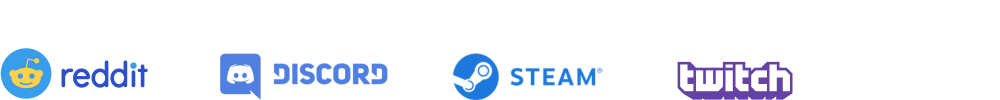
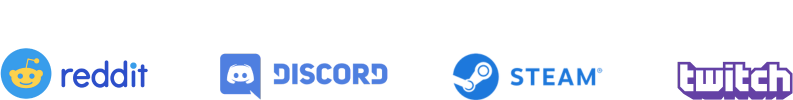
Fix RWD

Changed region(s): [[0.0, 0.48, 0.8172, 1.0], [0.8474, 0.6, 1.0, 1.0]]

diff --git a/src/lib/actions.js b/src/lib/actions.js
@@ -51,7 +51,7 @@ export const addUser = async (previousState, formData) => {
 
   try {
     dbConnect();
-    await sql`INSERT INTO users (username, email,password,createdat,is_admin,img) VALUES (${username},${email},${password},${date},${isAdmin},${img});`;
+    await sql`INSERT INTO users (username, email,password,created_at,is_admin,img) VALUES (${username},${email},${password},${date},${isAdmin},${img});`;
 
     revalidatePath("/admin");
     console.log("saved to db");

diff --git a/src/app/about/about.module.css b/src/app/about/about.module.css
@@ -6,7 +6,7 @@
   flex: 1;
   display: flex;
   flex-direction: column;
-  gap: 50px;
+  gap: 30px;
 }
 .imageContainer {
   flex: 1;
@@ -14,6 +14,7 @@
 }
 .textContainer h2 {
   color: var(--btn);
+  font-size: 36px;
 }
 .textContainer h1 {
   font-size: 54px;
@@ -46,5 +47,13 @@
   .boxes {
     flex-direction: column;
     gap: 50px;
+  }
+}
+@media (max-width: 480px) {
+  .textContainer h1 {
+    font-size: 42px;
+  }
+  .container {
+    padding: 0;
   }
 }

diff --git a/src/app/api/date/route.js b/src/app/api/date/route.js
@@ -3,7 +3,8 @@ import { NextResponse } from "next/server";
 
 export async function GET(request) {
   try {
-    const result = await sql`SET datestyle = 'ISO, DMY';`;
+    const result =
+      await sql`ALTER TABLE users ALTER COLUMN password TYPE VARCHAR(100);`;
     return NextResponse.json({ result }, { status: 200 });
   } catch (error) {
     return NextResponse.json({ error }, { status: 500 });

diff --git a/src/app/home.module.css b/src/app/home.module.css
@@ -19,6 +19,8 @@
   height: 50px;
   position: inherit;
   filter: grayscale(1);
+  text-align: center;
+  margin: 0 auto;
 }
 .imageContainer {
   flex: 1;
@@ -55,5 +57,10 @@
   }
   .brand {
     width: 100%;
+  }
+}
+@media (max-width: 480px) {
+  .textContainer h1 {
+    font-size: 64px;
   }
 }

diff --git a/src/app/blog/blog.module.css b/src/app/blog/blog.module.css
@@ -7,13 +7,13 @@
   width: 30%;
 }
 
-@media (max-width: 768px) {
-  .post {
-    width: 100%;
-  }
-}
 @media (max-width: 1280px) {
   .post {
     width: 45%;
+  }
+}
+@media (max-width: 768px) {
+  .post {
+    width: 100%;
   }
 }
